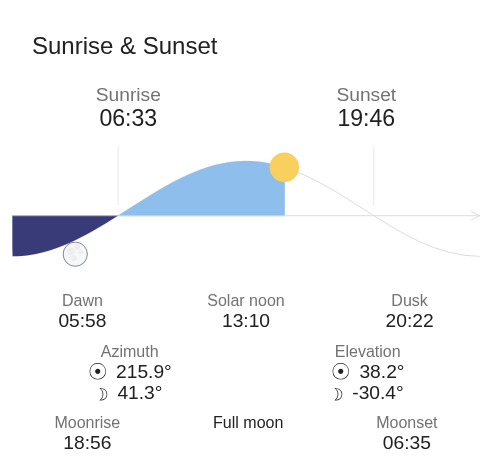
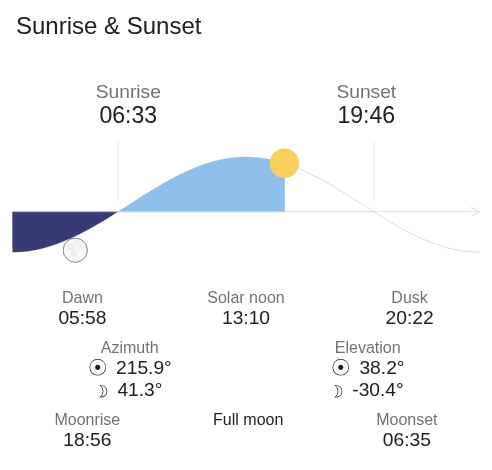
Adopt Home Assistant's standard card structure (card-header + card-content) (#220, #204)
Render the title through HA's standard `<h1 class="card-header">` as a direct
ha-card child (with the standard `.name` / `.icon` markup and a new `icon:` option),
and wrap the body in `.card-content`, so the card is styled and targeted like any
stock HA card instead of via bespoke `.horizon-card-title`.

- New `icon:` config option renders an `<ha-icon>` in the header, like stock cards.
- The title inherits the theme's `--ha-card-header-*` styling and standard header
  padding; `.horizon-card-title` is removed (BREAKING).
- The content wrapper gains the standard `.card-content` class. The card's own
  padding still applies (an outer-tree rule wins over ha-card's ::slotted), so the
  look is unchanged; card_mod / themes targeting `.card-content` now work.
- Retire the v1.5.3 spacing variables `--hc-card-padding`, `--hc-graph-margin`,
  `--hc-footer-margin` (BREAKING); override via the standard classes instead
  (e.g. `.card-content { padding: 0 }`, `.horizon-card-graph { margin: 0 }`).

The test harness ha-card stub now mirrors the real `::slotted(.card-header)` /
`::slotted(.card-content)` styling so visual tests match Home Assistant.

Only the title relocates; the graph/fields body is unchanged (visual baselines
change only for the two title cases). Unit and visual snapshots regenerated.

Refs #220, #204.

diff --git a/tests/visual/harness.html b/tests/visual/harness.html
@@ -57,9 +57,31 @@
     if (!customElements.get('ha-icon')) {
       customElements.define('ha-icon', class extends HTMLElement {})
     }
-    // Minimal ha-card wrapper (the real one is a themed container).
+    // Minimal ha-card that mirrors the real one's slotted .card-header /
+    // .card-content styling, so header/content layout matches Home Assistant.
     if (!customElements.get('ha-card')) {
-      customElements.define('ha-card', class extends HTMLElement {})
+      customElements.define('ha-card', class extends HTMLElement {
+        connectedCallback () {
+          if (this.shadowRoot) return
+          const root = this.attachShadow({ mode: 'open' })
+          root.innerHTML = `
+            <style>
+              :host { display: block; background: #ffffff; }
+              ::slotted(.card-header) {
+                color: var(--ha-card-header-color, var(--primary-text-color));
+                font-family: var(--ha-card-header-font-family, inherit);
+                font-size: var(--ha-card-header-font-size, 24px);
+                font-weight: normal;
+                margin-block: 0;
+                line-height: 1.2em;
+                padding: 12px 16px 16px;
+                display: block;
+              }
+              ::slotted(.card-content) { padding: 16px; }
+            </style>
+            <slot></slot>`
+        }
+      })
     }
   </script>
   <script src="../../dist/lovelace-horizon-card.js"></script>

diff --git a/src/components/horizonCard/HorizonCardContent.ts b/src/components/horizonCard/HorizonCardContent.ts
@@ -21,7 +21,8 @@ export class HorizonCardContent {
   render (): TemplateResult {
     return html`
       <ha-card>
-        <div class="horizon-card">
+        ${ this.renderCardHeader() }
+        <div class="horizon-card card-content">
           ${ this.renderHeader() }
           ${ this.config.graph !== false ? this.renderGraph() : nothing }
           ${ this.renderFooter() }
@@ -30,7 +31,21 @@ export class HorizonCardContent {
     `
   }
 
-  private renderHeader (): TemplateResult {
+  private renderCardHeader (): TemplateResult | typeof nothing {
+    if (this.config.title === undefined) {
+      return nothing
+    }
+    const icon = this.config.icon
+      ? html`<ha-icon class="icon" icon="${this.config.icon}"></ha-icon>`
+      : nothing
+    return html`
+      <h1 class="card-header">
+        <div class="name">${ icon }${ this.config.title }</div>
+      </h1>
+    `
+  }
+
+  private renderHeader (): TemplateResult | typeof nothing {
     return new HorizonCardHeader(this.config, this.data, this.i18n).render()
   }
 

diff --git a/src/cardStyles.ts b/src/cardStyles.ts
@@ -51,8 +51,14 @@ export default css`
   }
 
   .horizon-card {
-    padding: var(--hc-card-padding, 0.5em);
+    padding: 0.5em;
     font-family: var(--primary-font-family);
+  }
+
+  .card-header .name {
+    display: flex;
+    align-items: center;
+    gap: 0.4em;
   }
 
   .horizon-card-field-row {
@@ -114,17 +120,11 @@ export default css`
   }
 
   .horizon-card-footer {
-    margin-bottom: var(--hc-footer-margin, 1em);
-  }
-
-  .horizon-card-title {
-    margin: 1em 1em 1em 1em;
-    font-size: 1.5em;
-    color: var(--hc-primary);
+    margin-bottom: 1em;
   }
 
   .horizon-card-graph {
-    margin: var(--hc-graph-margin, 1em 0);
+    margin: 1em 0;
   }
 
   .horizon-card-graph .dawn {

diff --git a/src/components/horizonCard/HorizonCardHeader.ts b/src/components/horizonCard/HorizonCardHeader.ts
@@ -7,29 +7,20 @@ import { HelperFunctions } from '../../utils/HelperFunctions'
 import type { I18N } from '../../utils/I18N'
 
 export class HorizonCardHeader {
-  private readonly title?: string
   private readonly times: TSunTimes
   private readonly fields: THorizonCardFields
   private readonly i18n: I18N
   private readonly southern_flip: boolean
 
   constructor (config: IHorizonCardConfig, data: THorizonCardData, i18n: I18N) {
-    this.title = config.title
     this.fields = config.fields as THorizonCardFields
     this.times = data.sunData.times
     this.i18n = i18n
     this.southern_flip = config.southern_flip!
   }
 
-  public render (): TemplateResult {
-    return html`
-      ${ this.showTitle() ? this.renderTitle() : nothing }
-      ${ this.renderHeader() }
-    `
-  }
-
-  private renderTitle (): TemplateResult {
-    return html`<div class="horizon-card-title">${ this.title }</div>`
+  public render (): TemplateResult | typeof nothing {
+    return this.renderHeader()
   }
 
   private renderHeader (): TemplateResult | typeof nothing {
@@ -47,7 +38,4 @@ export class HorizonCardHeader {
     return html`<div class="horizon-card-header">${left}${right}</div>`
   }
 
-  private showTitle (): boolean {
-    return this.title !== undefined
-  }
 }

diff --git a/src/types/index.ts b/src/types/index.ts
@@ -25,6 +25,7 @@ export interface IHorizonCardConfig extends LovelaceCardConfig {
   language?: string
 
   title?: string,
+  icon?: string,
   moon?: boolean,
   sun?: boolean,
   graph?: boolean,